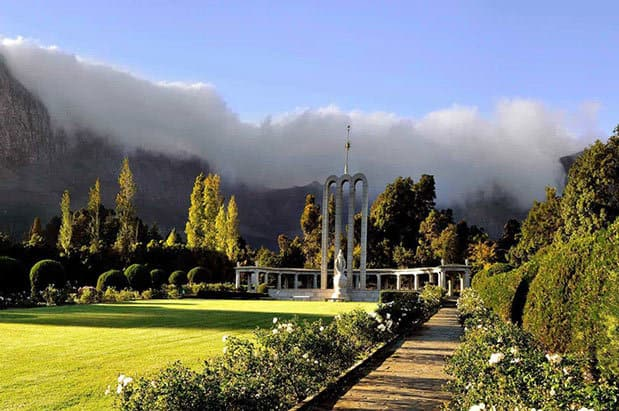
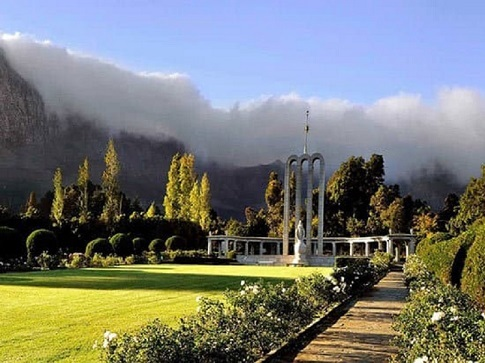
Resized and deleted unused pics

diff --git a/capetown.html b/capetown.html
@@ -52,21 +52,21 @@
     <div class="wrapper">
         <ul id="sb-slider" class="sb-slider">
             <li>
-                <img src="./images/img1.jpg" alt="image1">
+                <img src="./images/img1-slider.jpg" alt="image1">
                 <div class="sb-description">
                     <h3>The City</h3>
                 </div>
             </li>
 
             <li>
-                <img src="./images/campsbay.JPG" alt="Campsbay">
+                <img src="./images/campsbay.jpg" alt="Campsbay">
                 <div class="sb-description">
                     <h3>Campsbay, Cape Town</h3>
                 </div>
             </li>
 
             <li>
-                <img src="./images/img4.jpg" alt="image3">
+                <img src="./images/img4-slider.jpg" alt="image3">
                 <div class="sb-description">
                     <h3>Greenwich Thames Cruise Terminal</h3>
                 </div>
@@ -94,7 +94,7 @@
                 <div class="flip-card-inner">
                     <div class="flip-card-front">
                         <h3>Cape Town 1 Day Blitz Tour</h3>
-                        <img src="./images/capetown-bg-img.jpg" alt="London">
+                        <img src="./images/capetown-city-img.jpg" alt="Cape Town">
                     </div>
                     <div class="flip-card-back">
                         <h2>Cape Town 1 Day Blitz</h2>

diff --git a/css/style.css b/css/style.css
@@ -334,6 +334,7 @@ p {
   .flip-card-front h3 {
       font-size: 1.5rem;
       font-weight: 900;
+      text-shadow: 2px 2px 4px black;
   }
   .flip-card-front img {
       max-height: 30rem;
@@ -344,6 +345,10 @@ p {
     background-color: #2980b9;
     color: white;
     transform: rotateY(180deg);
+  }
+
+  .flip-card-back h2 {
+    text-shadow: 2px 2px 6px #000000
   }
 
   .tour-flip-cards {
@@ -621,7 +626,7 @@ footer-container a:hover {
         background: url("../images/img2-slider.jpg");
     }
     40% {
-        background: url("../images/img3-slider.jpg");
+        background: url("../images/the-shard-2.jpg");
     }
     60% {
         background: url("../images/img4-slider.jpg")

diff --git a/london.html b/london.html
@@ -49,7 +49,7 @@
         <ul id="sb-slider" class="sb-slider">
 
             <li>
-                <img src="./images/img1.jpg" alt="image1">
+                <img src="./images/img1-slider.jpg" alt="image1">
                 <div class="sb-description">
                     <h3>The City</h3>
                 </div>
@@ -63,7 +63,7 @@
             </li>
 
             <li>
-                <img src="./images/img4.jpg" alt="image3">
+                <img src="./images/img4-slider.jpg" alt="image3">
                 <div class="sb-description">
                     <h3>Greenwich Thames Cruise Terminal</h3>
                 </div>
